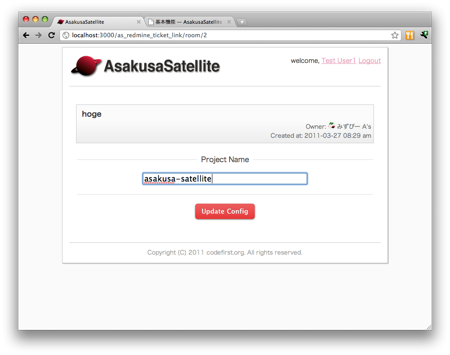
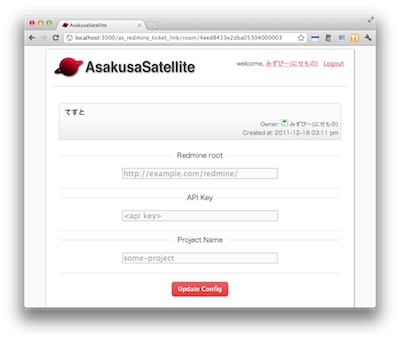
Redmineの設定方法を最新に更新。 refs #942

diff --git a/source/plugin.rst b/source/plugin.rst
@@ -15,10 +15,9 @@ config/filter.yml に以下を記述します
 .. code-block:: ruby
 
   - name: redmine_ticket_link
-    roots: "Redmine のルート URL"
-    api_key: "Redmine の個人設定 > API アクセスキー"
 
-また部屋の設定画面からチケットを作成するプロジェクトを指定できます。
+また部屋の設定画面からRedmineのルートURL、APIアクセスキー、チケットを作成するプロジェクトを指定できます。
+APIアクセスキーはRedmineの"個人設定 > API アクセスキー"から確認できます。
 
 .. image:: images/redmine_config.png
 
